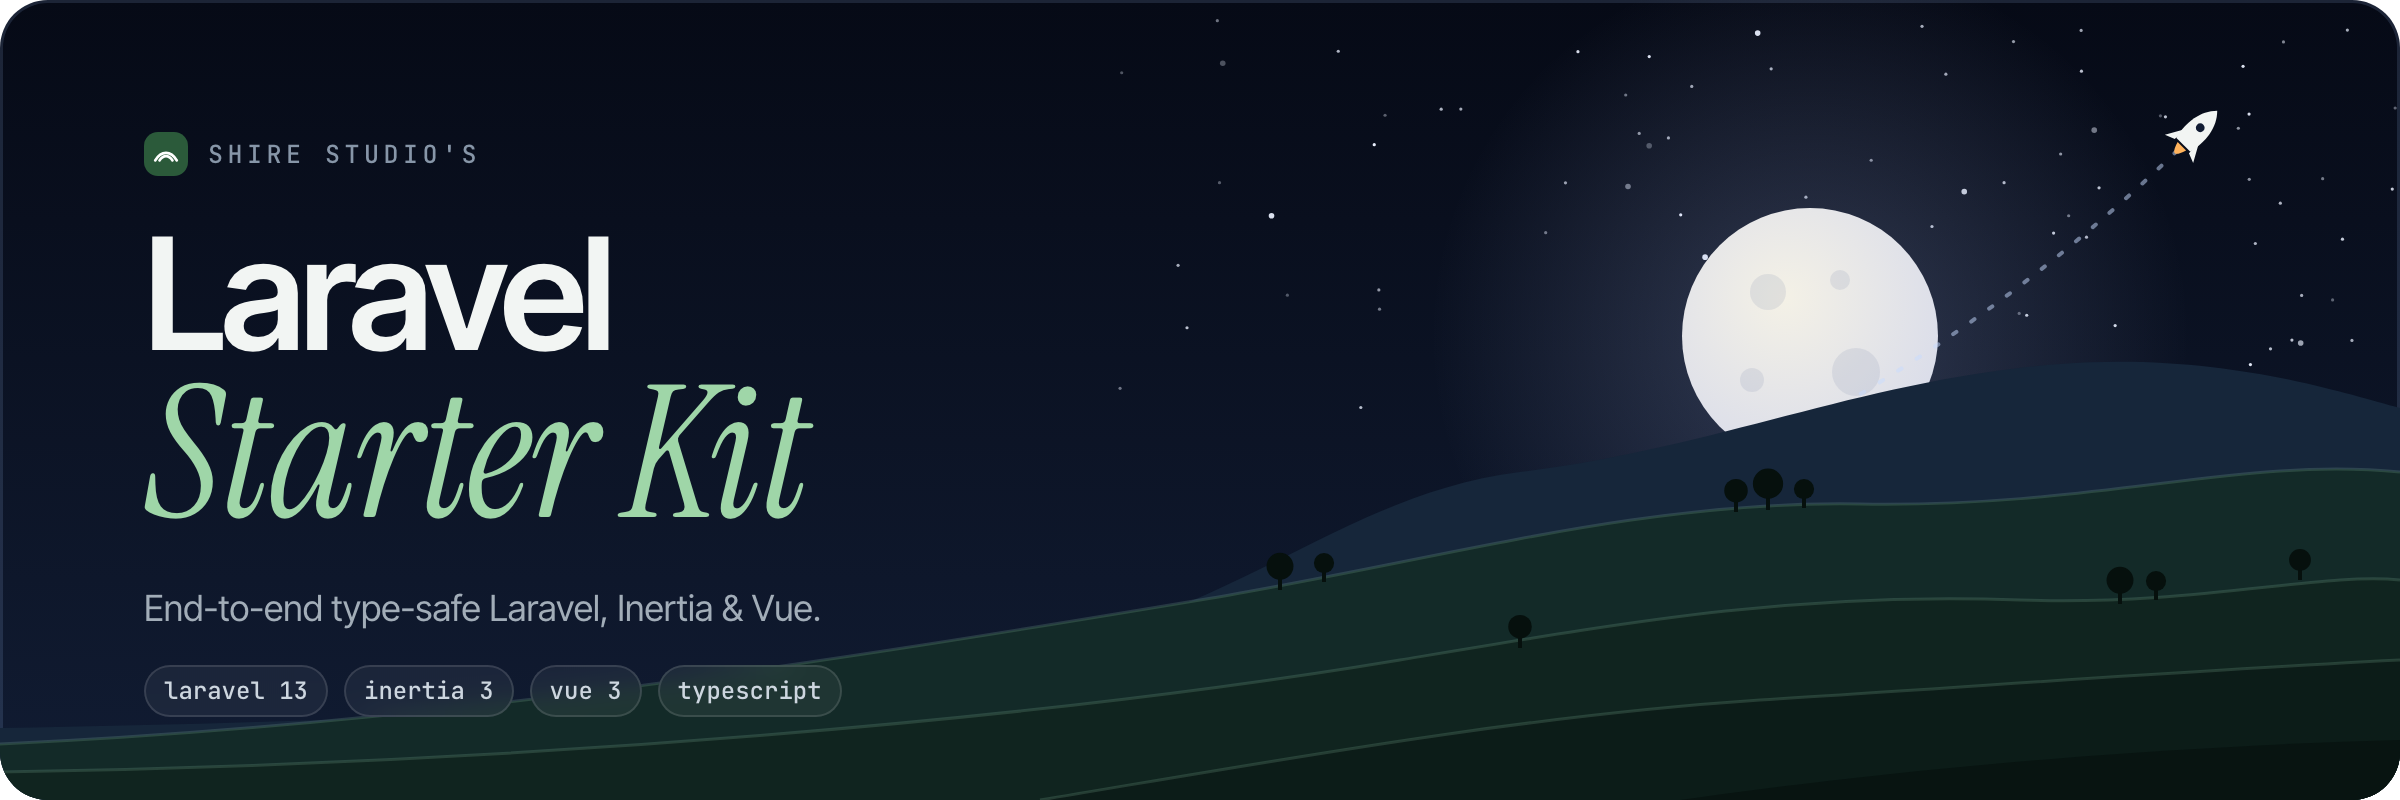
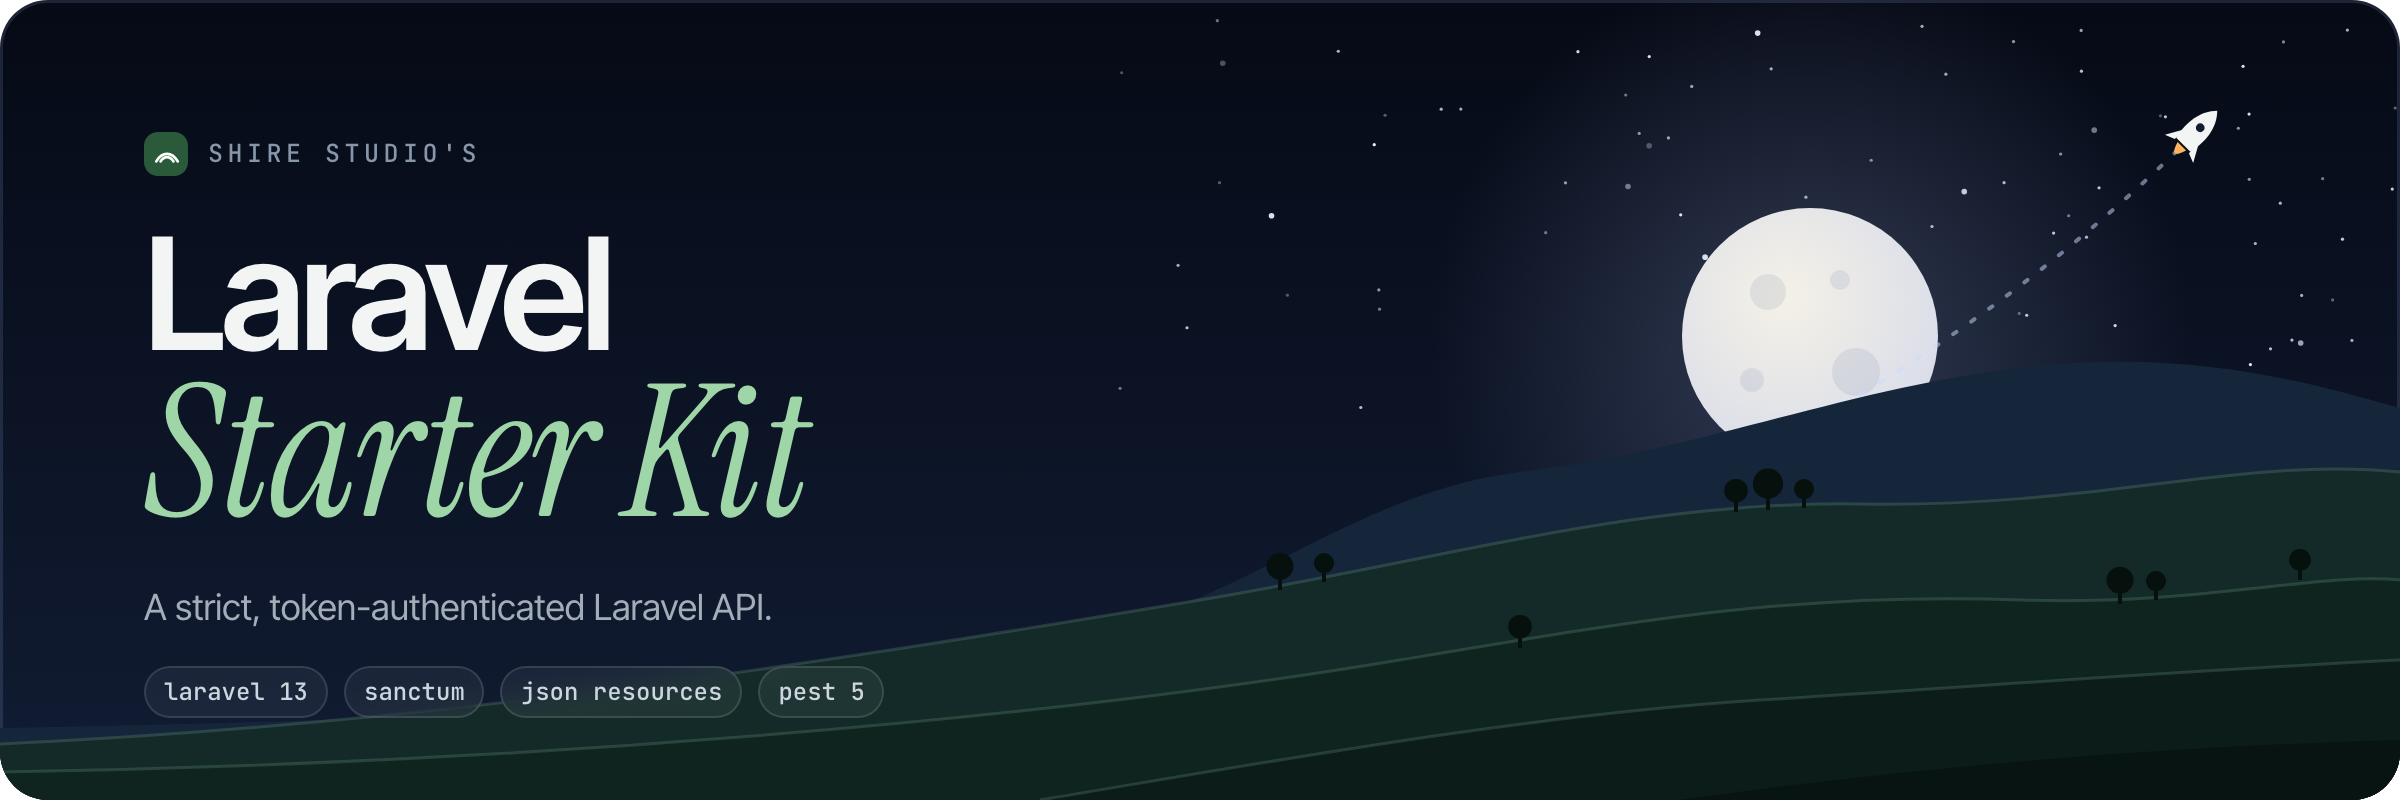
Merge pull request #1 from shire-studio/docs/per-kit-readmes-and-art
docs: give every kit the CLI README and its own artwork

Posted from Hobbiton: https://github.com/shire-studio/hobbiton/commit/cdd084a08187e6eee601ddf4f640897f741b3669

diff --git a/art/header.html b/art/header.html
@@ -125,8 +125,8 @@
       Shire Studio's
     </div>
     <h1>Laravel<em>Starter Kit</em></h1>
-    <p class="tagline">End-to-end type-safe Laravel, Inertia &amp; Vue.</p>
-    <div class="stack"><span>laravel 13</span><span>inertia 3</span><span>vue 3</span><span>typescript</span></div>
+    <p class="tagline">A strict, token-authenticated Laravel API.</p>
+    <div class="stack"><span>laravel 13</span><span>sanctum</span><span>json resources</span><span>pest 5</span></div>
   </div>
 </div>
 <script>

diff --git a/README.md b/README.md
@@ -1,6 +1,6 @@
 <picture>
     <source media="(prefers-color-scheme: dark)" srcset="art/header-dark.png">
-    <img alt="Logo for Laravel Starter Kit" src="art/header-light.png">
+    <img alt="Logo for the API Laravel Starter Kit" src="art/header-light.png">
 </picture>
 
 <br/>
@@ -44,16 +44,63 @@ Send the token as `Authorization: Bearer <token>`. Every response, including err
 >
 > SQLite is used by default for the database, cache and queue.
 
+The recommended way to start a project is the [starter kit CLI](https://github.com/shire-studio/laravel-starter-kit-cli). It works like the `laravel` installer, and it can also bring newer starter kit releases into your project later (see [Keeping Your Project Up to Date](#keeping-your-project-up-to-date)).
+
+Install it globally with Composer:
+
+```bash
+composer global require shire-studio/laravel-starter-kit-cli
+```
+
+This installs the `shire-kit` command. Make sure Composer's global bin directory is on your `PATH` (run `composer global config bin-dir --absolute` to find it). Then create a project:
+
+```bash
+shire-kit new example-app --kit=api
+cd example-app
+```
+
+This creates `example-app` from the latest stable release of the API starter kit. There is no frontend to build, so you'll only be asked whether to initialise a git repository. Pass `--git` or `--no-git` to skip the question, or `--force` to overwrite an existing directory.
+
+If you'd rather not install the CLI, `composer create-project` works too:
+
 ```bash
 composer create-project shire-studio/laravel-starter-kit-api --prefer-dist example-app
 cd example-app
+```
 
+Either way, the project gets a `.starter-kit.json` file recording the kit and release it was created from. Commit it, because the CLI reads it to work out which starter kit changes your project hasn't received yet.
+
+Then set it up:
+
+```bash
 # Install dependencies, create .env, generate a key and migrate
 composer setup
 
 # Start the server, queue worker and logs
 composer dev
 ```
+
+## Keeping Your Project Up to Date
+
+Once you've built on the starter kit, you can't just pull in new releases, because your project has drifted from it. The CLI's `update` command handles this. Run it from the root of your project:
+
+```bash
+shire-kit update
+```
+
+The project must be in a git repository with no uncommitted changes, so everything the update does can be reviewed with `git diff` and undone with `git restore`. It can live inside a larger repository, such as a monorepo.
+
+The CLI compares the release in your `.starter-kit.json` with the latest one and writes the changes to `.starter-kit-update/` (excluded from git). It then hands them to a coding agent of your choice, which merges them into your code, keeps your own changes and fixes anything the update breaks. Claude Code, Codex, Gemini CLI, OpenCode and Cursor are supported, and only the ones you have installed are offered. Pass `--agent=<agent>` to skip the question.
+
+When the agent is done, the CLI shows the changed files and asks whether to mark the project as updated, which bumps the version in `.starter-kit.json`. Nothing is committed for you. Review the changes, run `composer test`, then commit.
+
+A few things worth knowing:
+
+- **Removed features stay removed.** If you deleted part of the starter kit, such as email verification, the update won't bring it back. The CLI can record these in `.starter-kit.json` so future updates remember them.
+- **You can skip the agent.** `--agent=none` only prepares `.starter-kit-update/`. Follow `.starter-kit-update/PROMPT.md` yourself or give it to any agent you like.
+- **Older projects** without a `.starter-kit.json` can still be updated. Pass `--kit=api` (or pick the kit when asked), and the agent works out which release the project started from and asks you to confirm it.
+
+Update regularly. Small, frequent updates are much easier to review than one large jump across several releases. See the [CLI README](https://github.com/shire-studio/laravel-starter-kit-cli#update-an-existing-project) for every option.
 
 ## Available Commands
 
